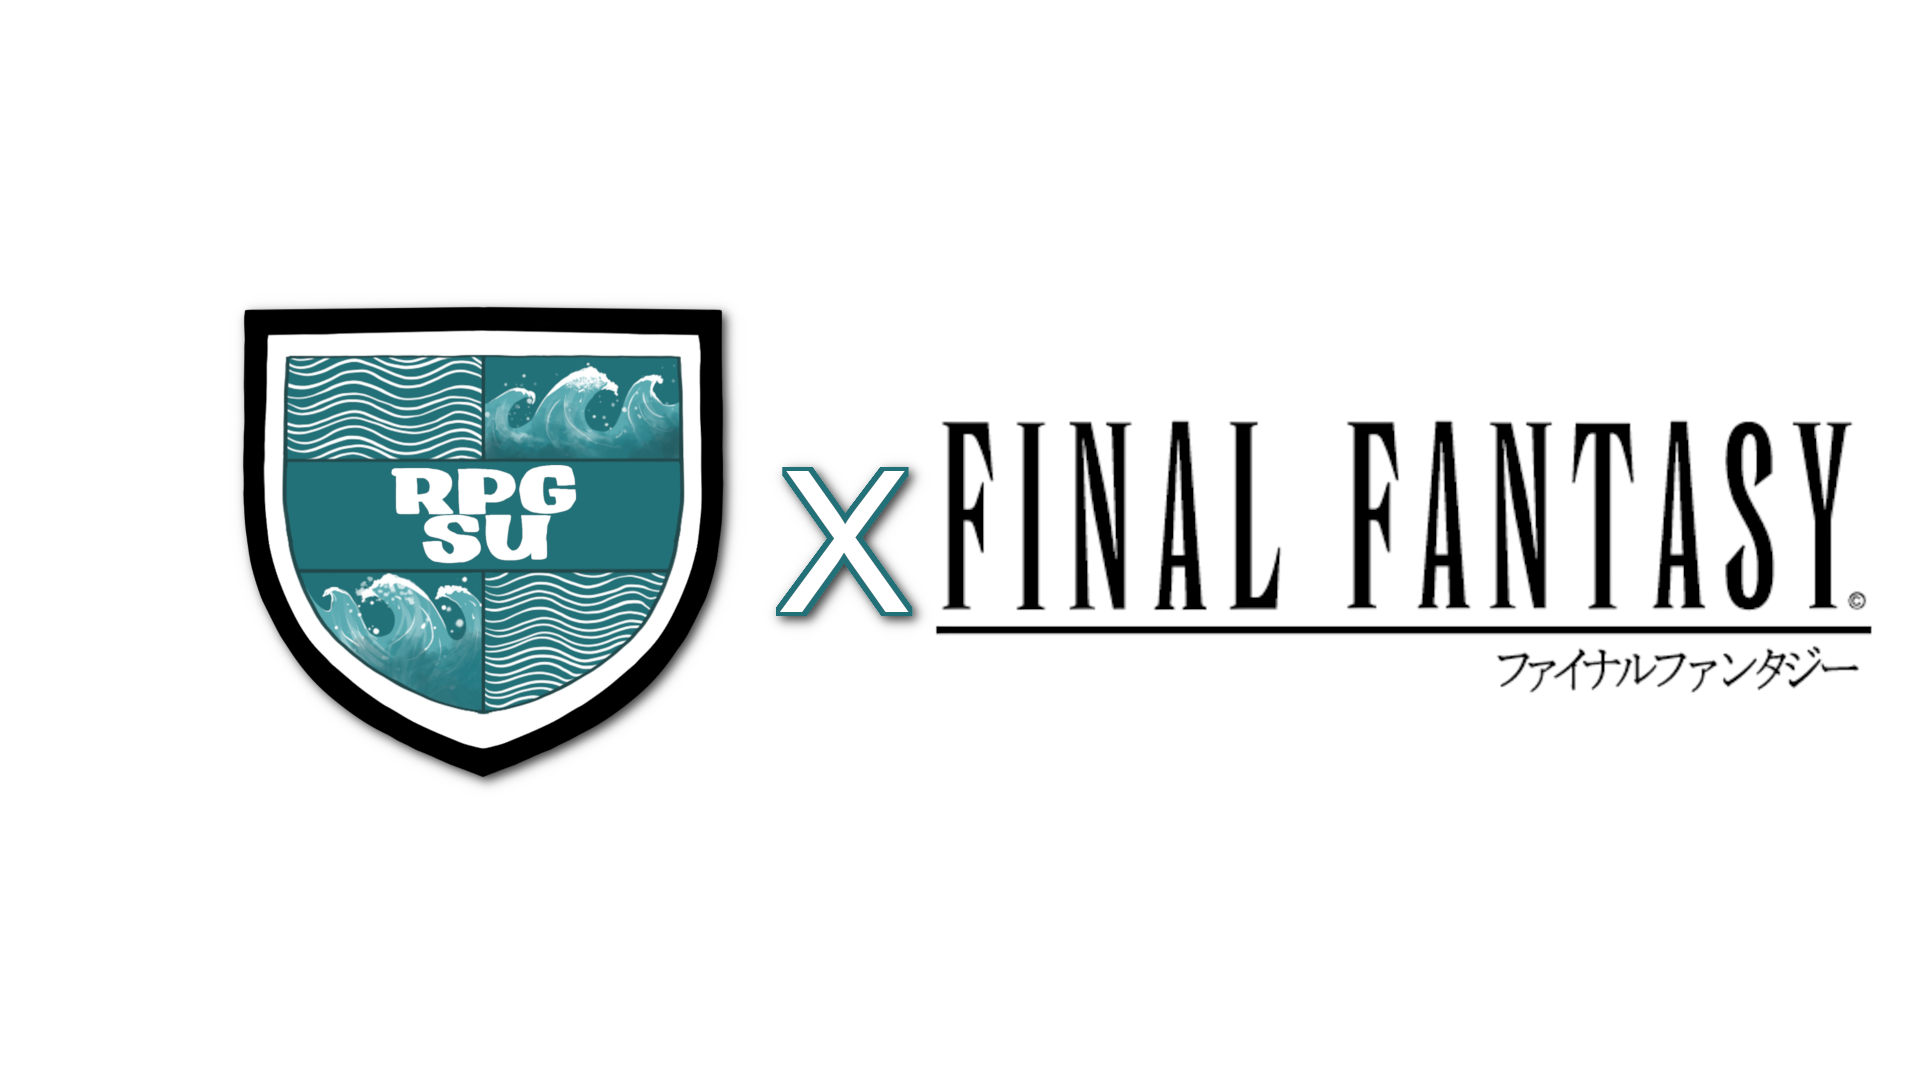
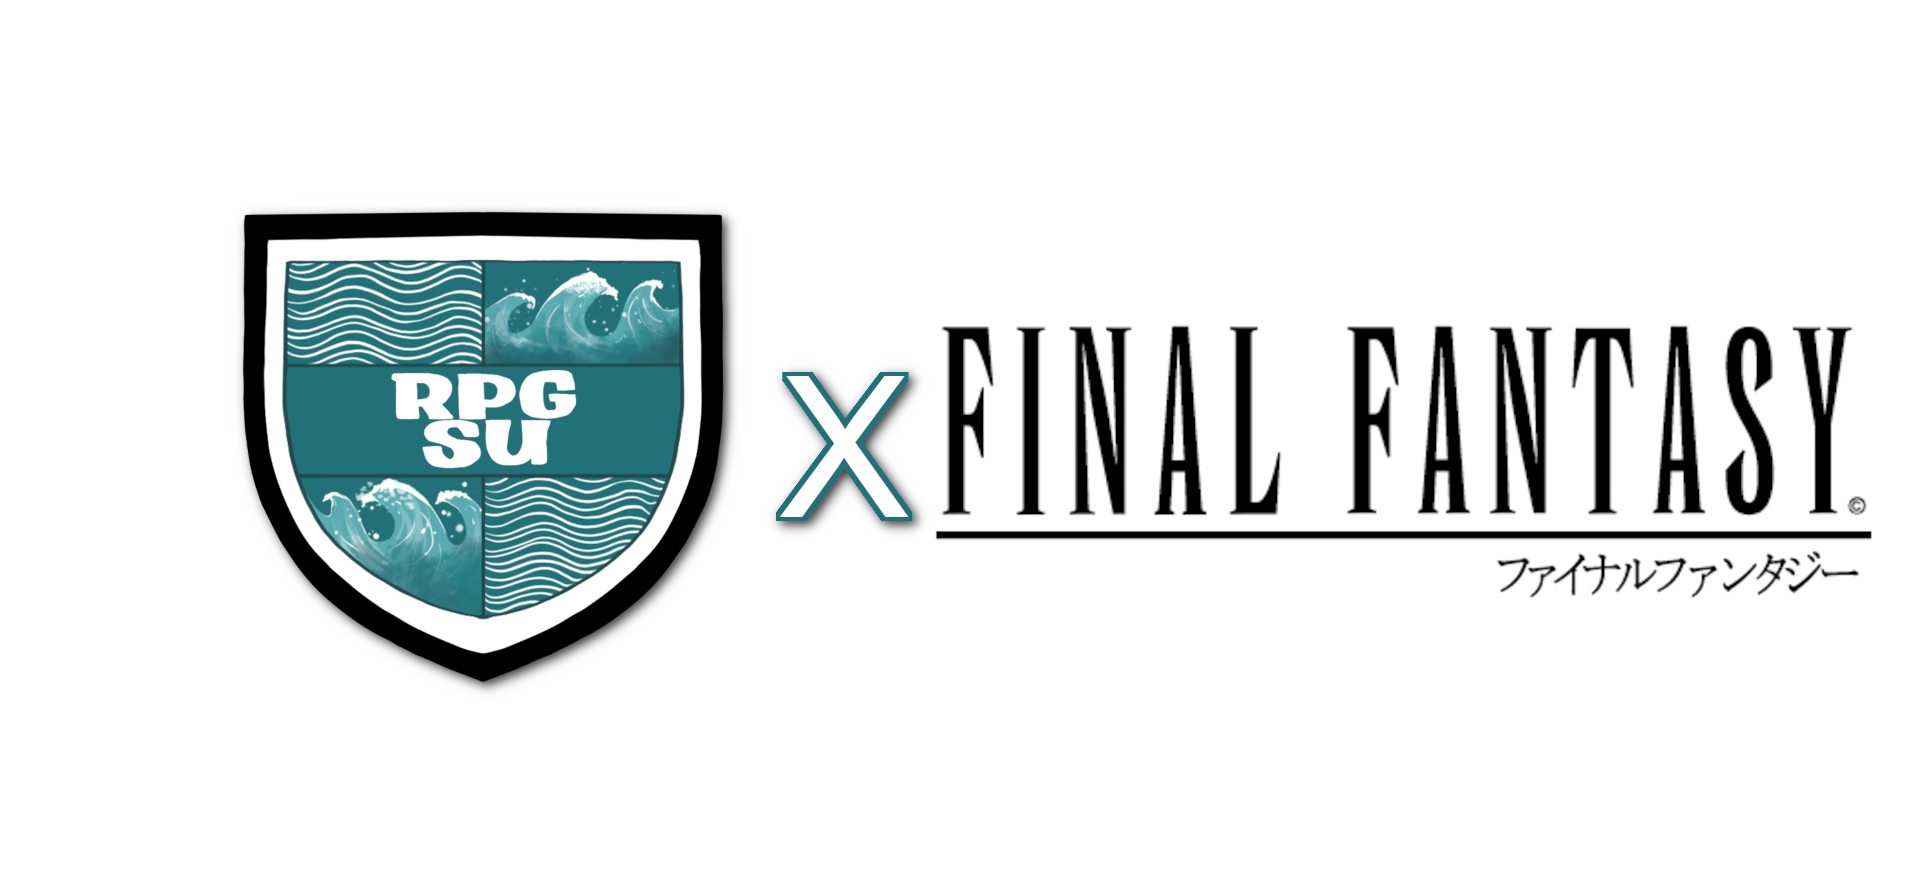
improvements on intermission layouts

diff --git a/src/browser/graphics/components/IntermissionLogoSocialMedia.tsx b/src/browser/graphics/components/IntermissionLogoSocialMedia.tsx
@@ -1,27 +1,30 @@
 import Logo from "../img/logo-text.png";
-import Twitch from "../img/svgs/twitch.svg";
-import Youtube from "../img/svgs/youtube.svg";
-import Bluesky from "../img/svgs/bluesky.svg";
+import Twitch from "../img/svgs/twitch.png";
+import Youtube from "../img/svgs/youtube.png";
+import Bluesky from "../img/svgs/bluesky.png";
 
 
 export const IntermissionLogoSocialMedia = () => {
-    return (<div className="text-center flex flex-col mx-auto">
-        <img src={Logo} alt="Logo" className="w-8/12" />
-        <h2 className="drop-shadow-2xl text-3xl">A home for RPG Speedruns.</h2>
-        <h3 className="drop-shadow-2xl text-2xl">Follow us here:</h3>
-        <div className="grid grid-flow-col">
-            <div>
-                <img src={Twitch} alt="Twitch Logo" />
-                <span>@rpgsu</span>
-            </div>
-            <div>
-                <img src={Youtube} alt="Youtube Logo" />
-                <span>@rpgsumarathon</span>
-            </div>
-            <div>
-                <img src={Bluesky} alt="Bluesky Logo" />                
-                <span>@rpgsu</span>
+    return (<div className="text-center flex flex-col mx-auto my-10">
+        <img src={Logo} alt="Logo" className="w-10/12 mx-auto" />
+        <div>
+            <h2 className="drop-shadow-2xl text-4xl">A home for RPG Speedruns.</h2>
+            <h3 className="drop-shadow-2xl text-3xl">Follow us here:</h3>
+            <div className="grid grid-flow-col ">
+                <div className="inline-flex items-center gap-2 text-2xl">
+                    <img src={Twitch} alt="Twitch Logo" />
+                    <span>@rpgsu</span>
+                </div>
+                <div className="inline-flex ml-10 items-center gap-2 text-2xl">
+                    <img src={Youtube} alt="Youtube Logo" />
+                    <span>@rpgsumarathon</span>
+                </div>
+                <div className="inline-flex items-center ml-10 gap-2 text-2xl">
+                    <img src={Bluesky} alt="Bluesky Logo" />
+                    <span>@rpgsu</span>
+                </div>
             </div>
         </div>
+
     </div>);
 }

diff --git a/src/browser/graphics/components/IntermissionInfoContainer.tsx b/src/browser/graphics/components/IntermissionInfoContainer.tsx
@@ -3,19 +3,28 @@ export const IntermissionInfoContainer = () => {
     const runner = "TonyKordatos";
     const category = "Any% JSP CST BST"
 
-    return(
-        <div className="border border-5 border-white grid grid-flow-row text-center w-4/12 mx-auto" style={{
+    return (
+        <div className="border border-5 border-white grid grid-flow-row text-center w-4/12 mx-auto shadow" style={{
             backgroundColor: "var(--color-bs-header)"
         }}>
-            <div className="p-5">
-                <span className="text-xl drop-shadow">{game}</span>
+            <div className="p-8 relative">
+                <div className="absolute top-0 left-0 bg-[#278178]/70 text-white text-md px-2 py-0.5 ">
+                    Game
+                </div>
+                <span className="text-2xl drop-shadow">{game}</span>
             </div>
             <div className="grid grid-flow-col">
-                <div className="border border-t-5 border-r-5 p-5">
-                    <span className="text-xl drop-shadow">{category}</span>
+                <div className="border border-t-5 border-r-5 p-8 relative">
+                    <div className="absolute top-0 left-0  bg-[#278178]/70 text-white text-md px-2 py-0.5">
+                        Category
+                    </div>
+                    <span className="text-2xl drop-shadow">{category}</span>
                 </div>
-                <div className="border border-t-5 p-5">
-                    <span className="text-xl drop-shadow">{runner}</span>
+                <div className="border border-t-5 p-8 relative">
+                    <div className="absolute top-0 left-0  bg-[#278178]/70 text-white text-md px-2 py-0.5">
+                        Runner
+                    </div>
+                    <span className="text-2xl drop-shadow">{runner}</span>
                 </div>
             </div>
         </div>

diff --git a/src/browser/graphics/intermission.tsx b/src/browser/graphics/intermission.tsx
@@ -5,6 +5,7 @@ import bg_image from './img/background.png';
 import useCurrentDayLogo from './hooks/useCurrentDayLogo';
 import { Title } from './components/Title';
 import {IntermissionInfoContainer} from './components/IntermissionInfoContainer';
+import {IntermissionLogoSocialMedia} from './components/IntermissionLogoSocialMedia';
 
 
 const Intermission = () => {
@@ -12,8 +13,8 @@ const Intermission = () => {
 
   return (
     <ThemeProvider>
-      <img src={bg_image} alt="" height={1080} width={1920} className="absolute min-h-svh object-cover inset-0 bottom-auto -z-1 w-full h-auto mask-b-from-50%" />
-      <div className='text-center mt-20'>
+      <img src={bg_image} alt="" height={1080} width={1920} className="absolute min-h-svh object-cover inset-0 bottom-auto -z-1 w-full h-auto  bg-white" />
+      <div className='text-center mt-15'>
         <Title title={currentDayLogo} />
       </div>
       <RotatingImage />

diff --git a/src/browser/graphics/components/RotatingImage.tsx b/src/browser/graphics/components/RotatingImage.tsx
@@ -54,7 +54,7 @@ export const RotatingImage = () => {
 	}, []);
 
 	return (
-		<div className="grid items-center w-8/12 mx-auto">
+		<div className="grid place-items-center w-9/12 mx-auto">
 			{/* Layer 1: IntermissionLogoImage */}
 			<div
 				className={`col-start-1 row-start-1 transition-opacity duration-1000 ${
@@ -66,7 +66,7 @@ export const RotatingImage = () => {
 
 			{/* Layer 2: Static Logo image */}
 			<div
-				className={`col-start-1 row-start-1 transition-opacity duration-1000 ${
+				className={`col-start-1 w-9/12 row-start-1  transition-opacity duration-1000 ${
 					activeIndex === 1 ? (isVisible ? 'opacity-100' : 'opacity-0') : 'opacity-0'
 				}`}
 			>

diff --git a/src/browser/graphics/components/theme-provider.tsx b/src/browser/graphics/components/theme-provider.tsx
@@ -10,9 +10,9 @@ export const ThemeProvider = ({ children }: { children: ReactNode }) => {
         overflow: "hidden",
         color: "white",
         fontWeight: "bold",
-        fontFamily: 'Noto Serif JP',
+        fontFamily: 'Futura, "Futura PT", "Avenir Next", Avenir, "Segoe UI", "Helvetica Neue", Helvetica, Arial, sans-serif',
         display: "flex",
-        flexDirection: "column"
+        flexDirection: "column",
       }}>
         {children}
       </div>

diff --git a/src/extension/util/replicants.ts b/src/extension/util/replicants.ts
@@ -1,5 +1,5 @@
 import { get } from './nodecg';
-import { CurrentOBSScene } from '@nodecg-react-tailwind-template/types/generated';
+import { CurrentOBSScene } from '@rpgsu-layouts/types/generated';
 
 const nodecg = get();
 

diff --git a/README.md b/README.md
@@ -1,4 +1,4 @@
-# nodecg-react-tailwind-template
+# rpgsu-layouts
 Template for NodeCG bundles that use React and TypeScript, builds with Vite and implements TailwindCSS for easy costumization of components. An extension of Hoxi's [nodecg-react-template](https://github.com/hoXyy/nodecg-react-template) template.
 
 This bundle is aimed to quickstart the creation of NodeCG bundles for speedrunning events, so it already has some references to [Speedcontrol](https://github.com/speedcontrol/nodecg-speedcontrol).
@@ -15,7 +15,7 @@ Follow the [NodeCG Installation Guide](https://www.nodecg.dev/docs/installing/).
 Install this template in the bundles directory with
 
 ```bash
-nodecg install mbcsalmeida/nodecg-react-tailwind-template
+nodecg install mbcsalmeida/rpgsu-layouts
 ```
 
 or by cloning this repository into the bundles directory.
